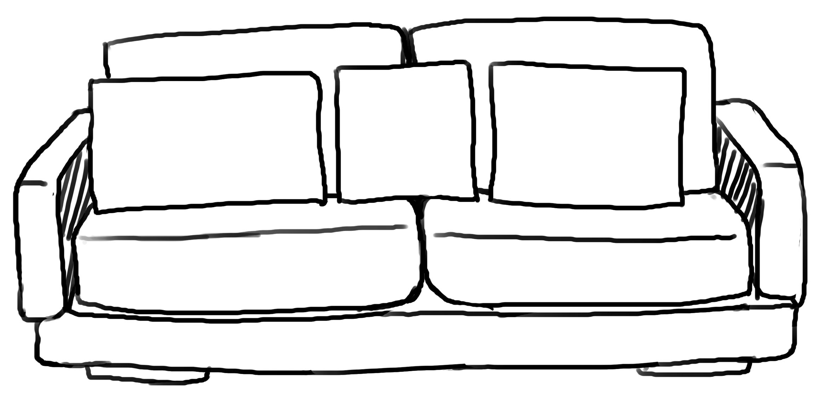
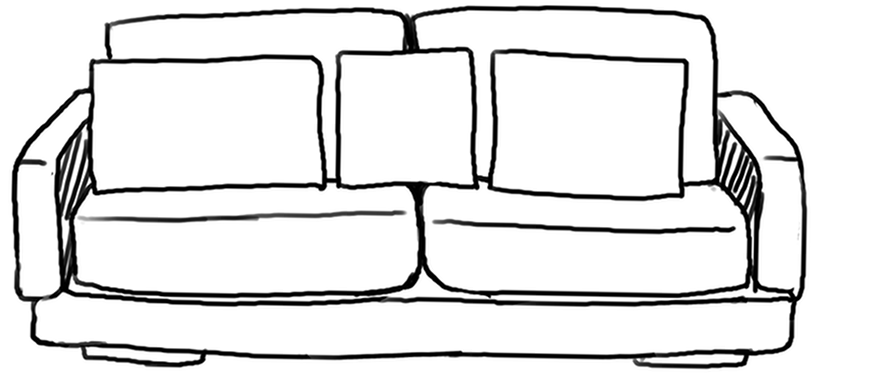
head of index

Changed region(s): [[0.0, 0.0, 0.994, 0.9842]]

diff --git a/public/css/main.css b/public/css/main.css
@@ -1,0 +1,7 @@
+.shafa{
+	background-image:url(../images/shafa.png);
+	background-size:45%;
+	background-repeat:no-repeat;
+	background-position:right bottom;
+	background-attachment:scroll;
+}
